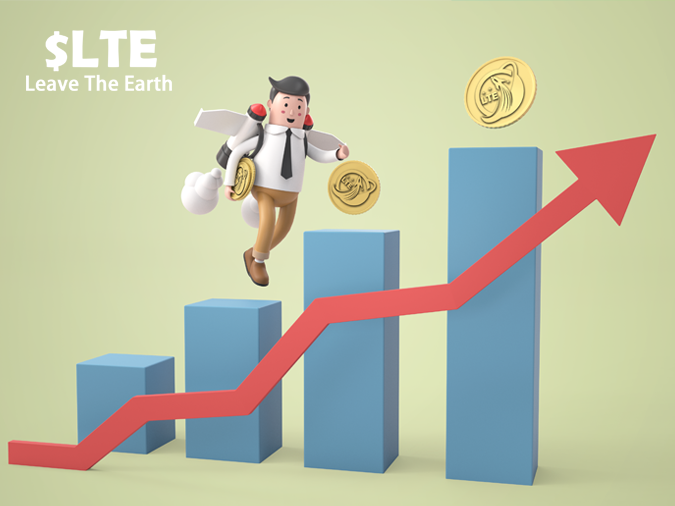
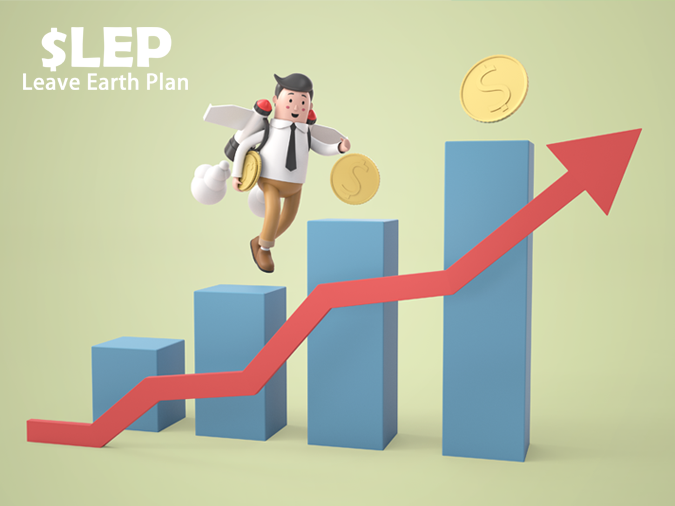
swsw

Changed region(s): [[0.0, 0.0889, 0.9956, 0.9783], [0.0311, 0.0296, 0.28, 0.1779]]

diff --git a/index.html b/index.html
@@ -50,13 +50,13 @@
                 <!---start-da-slider----->
                 <div id="da-slider" class="da-slider">
                     <div class="da-slide">
-                        <h2>LEP & LEP</h2>
-                        <p>LEP is a BEP-20 token </p>
+                        <h2>LEAVE EARTH PLAN</h2>
+                        <p>The new token made by CNPP team focus on increasing the marketing cap. </p>
                         <a href="https://www.pancakeswap.finance/swap?outputCurrency=" class="da-link"><span> BUY NOW</span></a>
                     </div>
                     <div class="da-slide">
-                        <h2>LEP & LEP</h2>
-                        <p>LEP with deflationary autonomous rate of return
+                        <h2>SURELY TO THE MOON</h2>
+                        <p>A combination of manual and automatic buybacks，and buyback tokens will be burnt.
                         </p>
                         <a href="https://www.pancakeswap.finance/swap?outputCurrency=" class="da-link"><span> BUY NOW</span></a>
                     </div>
@@ -151,20 +151,20 @@
                             <div class="group_2_img1"> <img src="images/img1.png" alt=""> </div>
                             <div class="group_2_text2">
                                 <div class="desc">
-                                    <h3>Perfect Distribution &
+                                    <h3>FEATURE
                                     </h3>
-                                    <h4>Tokenomics</h4>
+                                    <h4>Crazy buy-back & Burnt</h4>
                                 </div>
                                 <div class="desc">
-                                    <h3>Begin with 30% tax
+                                    <h3>AUTO-BUYBACK
 
                                     </h3>
-                                    <h4> 15% burn
+                                    <h4> 6% tax
                                     </h4>
                                 </div>
                                 <div class="desc">
-                                    <h3>10% prize pool</h3>
-                                    <h4> 5%  marketing.</h4>
+                                    <h3>MANUAL-BUYBACK</h3>
+                                    <h4> 70bnb in the buyback wallet</h4>
                                 </div>
                                 <div class="button_2"> <a href="https://www.pancakeswap.finance/swap?outputCurrency=">BUY
                                         NOW</a> </div>
@@ -179,23 +179,23 @@
                             <div class="group_2_img1"> <img src="images/img2.png" alt=""> </div>
                             <div class="group_2_text2">
                                 <div class="desc">
-                                    <h3>Reduce when LP increases by 100B
+                                    <h3>PRESALE PLATFORM
                                     </h3>
-                                    <h4>200b-30% 300b-20% 400b-10% 500b-5%
+                                    <h4>Pinksale
 
                                     </h4>
                                 </div>
                                 <div class="desc">
-                                    <h3>Reduce when LP increases by 100B
+                                    <h3>SOFT CAP & HARD CAP
                                     </h3>
-                                    <h4>200b-30% 300b-20% 400b-10% 500b-5%
+                                    <h4>60b & 120b
 
                                     </h4>
                                 </div>
                                 <div class="desc">
-                                    <h3>Reduce when LP increases by 100B
+                                    <h3>MIN BUY & MAX BUY
                                     </h3>
-                                    <h4>200b-30% 300b-20% 400b-10% 500b-5%
+                                    <h4>0.1b & 0.5b
 
                                     </h4>
                                 </div>
@@ -212,16 +212,16 @@
                             <div class="group_2_img1"> <img src="images/img3.png" alt=""> </div>
                             <div class="group_2_text2">
                                 <div class="desc">
-                                    <h3>0% tax at last</h3>
-                                    <h4>0% tax when prize pool get 1 million usdt</h4>
+                                    <h3>BACK TO LP</h3>
+                                    <h4>2% of tax</h4>
                                 </div>
                                 <div class="desc">
-                                    <h3>0% tax at last</h3>
-                                    <h4>0% tax when prize pool get 1 million usdt</h4>
+                                    <h3>AUTO BUYBACK</h3>
+                                    <h4>6% of tax</h4>
                                 </div>
                                 <div class="desc">
-                                    <h3>0% tax at last</h3>
-                                    <h4>0% tax when prize pool get 1 million usdt</h4>
+                                    <h3>Marketing</h3>
+                                    <h4>4% of tax</h4>
                                 </div>
                                 <div class="button_2"> <a href="https://www.pancakeswap.finance/swap?outputCurrency=">BUY
                                         NOW</a> </div>
@@ -295,34 +295,34 @@
                     <h3 class="heading">Token Percentage</h3>
                     <p class="para">Distribution and matching of LEP tokens.
                     </p>
-                    <div class="chart" data-percent="50" data-bar-color="#35AFBA" data-animate="4000">
+                    <div class="chart" data-percent="47.78" data-bar-color="#35AFBA" data-animate="4000">
                         <div class="chart-content">
                             <div class="percent"></div>
-                            <div class="chart-title">Pre sale</div>
+                            <div class="chart-title">Presale</div>
                         </div>
                         <!-- chart-content -->
                     </div>
                     <!-- chart -->
-                    <div class="chart" data-percent="30" data-bar-color="#3AD079" data-animate="3000">
+                    <div class="chart" data-percent="5.29" data-bar-color="#3AD079" data-animate="3000">
                         <div class="chart-content">
                             <div class="percent"></div>
-                            <div class="chart-title">Add liquidity</div>
+                            <div class="chart-title">Private sale</div>
                         </div>
                         <!-- chart-content -->
                     </div>
                     <!-- chart -->
-                    <div class="chart" data-percent="10" data-bar-color="#58C0E3" data-animate="3500">
+                    <div class="chart" data-percent="33.44" data-bar-color="#58C0E3" data-animate="3500">
                         <div class="chart-content">
                             <div class="percent"></div>
-                            <div class="chart-title">Operation</div>
+                            <div class="chart-title">Liquidity</div>
                         </div>
                         <!-- chart-content -->
                     </div>
                     <!-- chart -->
-                    <div class="chart" data-percent="10" data-bar-color="#58C0E3" data-animate="3500">
+                    <div class="chart" data-percent="13.49" data-bar-color="#58C0E3" data-animate="3500">
                         <div class="chart-content">
                             <div class="percent"></div>
-                            <div class="chart-title">Air Drop</div>
+                            <div class="chart-title">Airdrop</div>
                         </div>
                         <!-- chart-content -->
                     </div>
@@ -415,7 +415,7 @@
                             <div class="group_3_img"> <img src="images/img.png" alt=""> </div>
                             <div class="group_1_text group_3_text">
                                 <h3> About Us</h3>
-                                <p>LEP is a token on the Binance Smart Chain that offers features like auto burns auto-liquidity generating mechanism, and static rewards on every transaction.
+                                <p>The same team with CNPP，who wants to make the first chariy platform in blockchain，However, due to the lack of experience, $CNPP ATH stopped at 100X. Then we use all the marketing dollars to pull the chart and let investors recover some of their losses.
                                 </p>
                             </div>
                             <div class="clear"> </div>
@@ -426,8 +426,7 @@
                             <div class="group_3_img"> <img src="images/img.png" alt=""> </div>
                             <div class="group_1_text group_3_text">
                                 <h3>About Us</h3>
-                                <p>LEP brings to its community a bunch of products on which development has already started and some of which will be released in the next quarter These products will all exponentially raise the value and price of
-                                    LEP,a project that will uphold the token value.
+                                <p>Now we come back! We are not beaten down by failure and we get strong followers! This time we will devote all our energy and time to running this project well. We're going to use 70bnb to buy-back and let $LEP leave the earth to the moon! 1000X！
                                 </p>
                             </div>
                             <div class="clear"> </div>
@@ -463,7 +462,7 @@
                             <li><a href="#skills" class="scroll">Skills</a> </li>
                             <li><a class="scroll" href="#Experience">Roadmap</a></li>
                             <li><a href="#contact" class="scroll">About Us</a></li>
-                            <li><a href="https://twitter.com/LEP_Global">Twitter</a>
+                            <li><a href="https://twitter.com/CNPP_BSC">Twitter</a>
                             </li>
                             <li><a href="https://t.me/CNpeople">Telegram</a></li>
                             <div class="clear"> </div>
@@ -472,17 +471,17 @@
                     <div class="widget column three">
                         <h4>Archives</h4>
                         <ul class="plain">
-                            <li><a href="#">March 2021</a></li>
-                            <li><a href="#">April 2021</a></li>
-                            <li><a href="#">May 2021</a></li>
-                            <li><a href="#">June 2021</a></li>
-                            <li><a href="#">July 2021</a></li>
+                            <li><a href="#">March 2022</a></li>
+                            <li><a href="#">April 2022</a></li>
+                            <li><a href="#">May 2022</a></li>
+                            <li><a href="#">June 2022</a></li>
+                            <li><a href="#">July 2022</a></li>
                             <div class="clear"> </div>
                         </ul>
                     </div>
                     <div class="widget column three">
                         <h4>LEP</h4>
-                        <p>LEP is a BEP-20 token with deflationary autonomous rate of return and liquidity generation function.</p>
+                        <p>$LEP is a BEP-20 token with crazy buy-back system , deflationary autonomous rate of return and liquidity generation function.</p>
                     </div>
                     <div class="widget meta-social column three last">
                         <div class="soc_icons soc_icons1">
@@ -492,7 +491,7 @@
                                     <a class="icon1" href="#"> </a>
                                 </li>
                                 <li>
-                                    <a class="icon2" href="https://twitter.com/LEP_Global"> </a>
+                                    <a class="icon2" href="https://twitter.com/CNPP_BSC"> </a>
                                 </li>
                                 <li>
                                     <a class="icon3" href="https://t.me/CNpeople"> </a>
